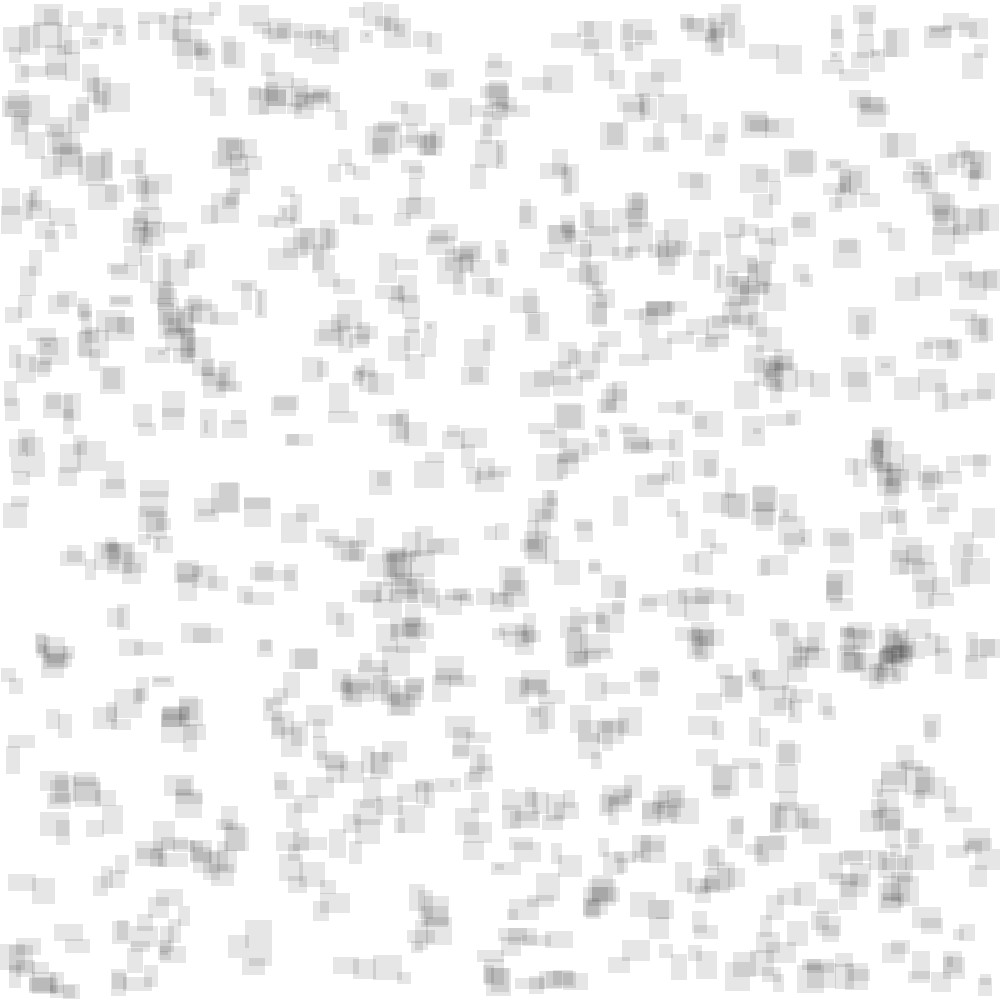
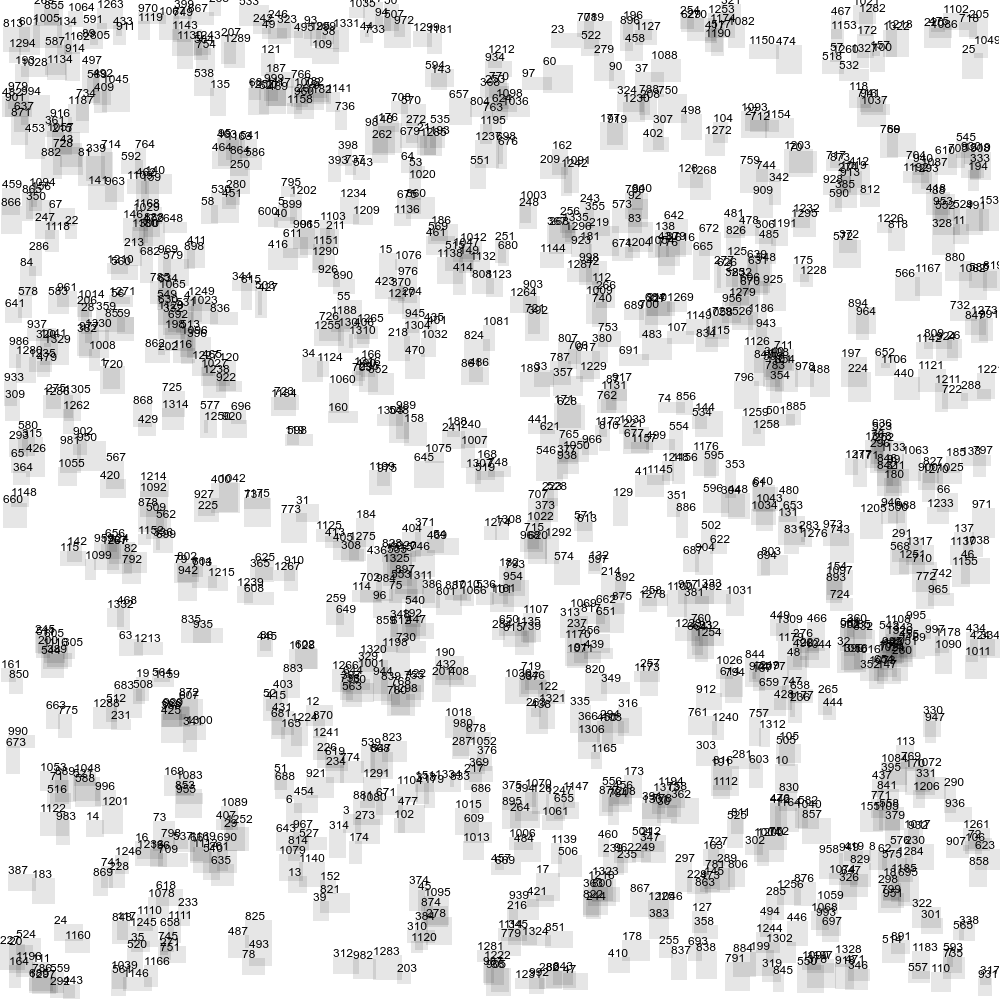
day 3 part 2-ish

diff --git a/day3/generate_image.rb b/day3/generate_image.rb
@@ -2,30 +2,24 @@
 
 # Day 3 Part 1
 
-class Array
-  def inc
-    self.map &:inc
-  end
-end
-
-class Integer
-  def inc
-    self + 1
-  end
-end
-
-s = File.read('input').split(?\n)
+file = File.readlines 'input'
 `convert -size 1000x1000 xc:white output.png`
 
-cmdstring = ""
+rect_cmds, label_cmds = '', ''
 
-a = Array.new(1000) { Array.new(1000, 0) }
-s.map { |s|
+file.map { |s|
   /#(?<id>\d+) @ (?<x>\d+),(?<y>\d+): (?<width>\d+)x(?<height>\d+)/ =~ s
-  {id: id.to_i, x: x.to_i, y: y.to_i, w: width.to_i, h: height.to_i}
+  { id: id.to_i, x: x.to_i, y: y.to_i, w: width.to_i, h: height.to_i }
 }.each { |s|
-  cmdstring << "-draw \"rectangle #{s[:x]},#{s[:y]} #{s[:x]+s[:w]},#{s[:y]+s[:h]}\" "
+  rect_cmds << "-draw \"rectangle #{s[:x]},#{s[:y]} #{s[:x] + s[:w]},#{s[:y] + s[:h]}\" "
+  label_cmds << "-draw \" text #{s[:x]},#{s[:y]} '#{s[:id]}'\" "
   puts s
 }
 
-`convert output.png -strokewidth 0 -fill "rgba( 0, 0, 0, 0.1 )" #{cmdstring} output.png`
+`convert output.png \
+  -strokewidth 0 \
+  -fill "rgba( 0, 0, 0, 0.1 )" \
+  #{rect_cmds} \
+  -fill "rgba( 0, 0, 0, 1 )" \
+  #{label_cmds} \
+  output.png`

diff --git a/day3/day3part2.md b/day3/day3part2.md
@@ -1,0 +1,3 @@
+# day 3 part 2
+
+use the generate_image.rb to generate an image, then find the non-overlapping rectangle.
